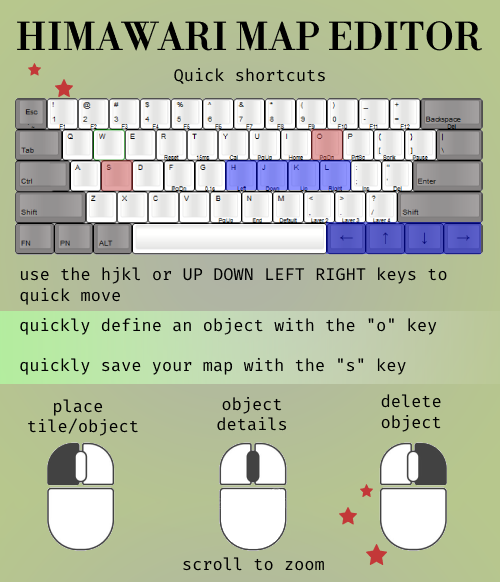
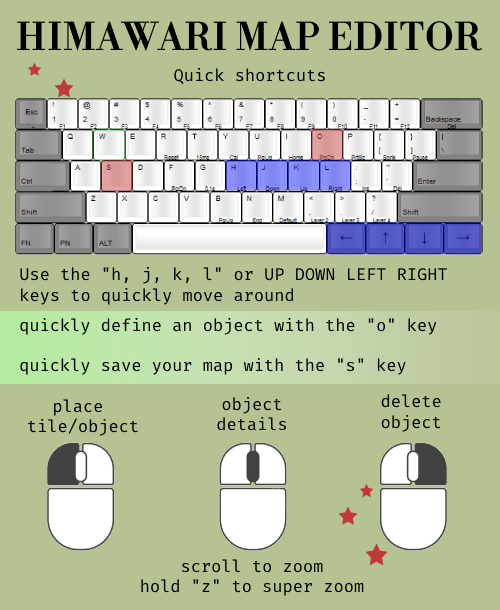
logs output

Changed region(s): [[0.0, 0.0309, 0.99, 0.9897], [0.66, 0.0309, 0.96, 0.0928], [0.81, 0.5258, 0.87, 0.5876]]

diff --git a/src/ProjectControl.java b/src/ProjectControl.java
@@ -21,7 +21,7 @@ public class ProjectControl extends JPanel implements ActionListener {
     private JButton newObject = new JButton("New Object"), newAlert = new JButton("Create Alarm"),
             newPlugin = new JButton("Import plugin"), importComponent = new JButton("Import component"),
             deleteCluster = new JButton("Delete cluster"), createCluster = new JButton("Create cluster"),
-            clearLogs = new JButton("Clear logs");
+            clearLogs = new JButton("Clear logs"), checkLogs = new JButton("Check storage logs");
     private JTextArea area = null;
     private JComboBox<String> clusterBox = null;
 
@@ -53,10 +53,11 @@ public class ProjectControl extends JPanel implements ActionListener {
                 + " KB)");
         dbData.setBounds(5, 540, 410, 20);
         add(dbData);
-
+        
+        
         // Fetch database clusters
         connect();
-
+        
         try {
 
             ResultSet rs = conn.getMetaData().getTables(null, null, null, null);
@@ -76,19 +77,23 @@ public class ProjectControl extends JPanel implements ActionListener {
         clusterInfo.setText(active+" active clusters out of "+clusters.size());
         clusterInfo.setBounds(5, 520, 410, 100);
         add(clusterInfo);
-
+        
         clusterBox = new JComboBox<String>(clusters.toArray(new String[clusters.size()]));
         clusterBox.setBounds(5, 595, 200, 30);
 
         deleteCluster.setBounds(210, 595, 200, 30);
         deleteCluster.addActionListener(this);
-
+        
         createCluster.setBounds(5, 625, 200, 30);
         createCluster.addActionListener(this);
         
         clearLogs.setBounds(210, 625, 200, 30);
         clearLogs.addActionListener(this);
+        
+        checkLogs.setBounds(5, 660, 405, 30);
+        checkLogs.addActionListener(this);
 
+        add(checkLogs);
         add(clearLogs);
         add(deleteCluster);
         add(createCluster);
@@ -112,7 +117,7 @@ public class ProjectControl extends JPanel implements ActionListener {
         
         area = new JTextArea();
         JScrollPane pane = new JScrollPane(area);
-        pane.setBounds(5, 300, 410, 200);
+        pane.setBounds(5, 270, 410, 200);
         
         add(pane);
         
@@ -322,6 +327,29 @@ public class ProjectControl extends JPanel implements ActionListener {
         } else if (e.getSource() == newPlugin) {
 
             new PluginManager();
+        } else if (e.getSource() == checkLogs) {
+
+            long milis = System.currentTimeMillis();
+            connect();
+
+            String sql = "SELECT * FROM logs";
+            try(Statement stmt = conn.createStatement()){
+
+                ResultSet rs = stmt.executeQuery(sql);
+                
+                rs.last();
+                String output = "Found " + rs.getRow() + " logs in " + ((System.currentTimeMillis() - milis)/1000) + " seconds ...\n";
+
+                rs.first();
+                while(rs.next()) {
+
+                    output += "description: " + rs.getString("description") + " | date: " + rs.getString("log_date") + "\n";
+                }
+                area.setText(output);
+                
+            }catch(Exception ee) {ee.printStackTrace();}
+
+            close();
         }
 
     }

diff --git a/src/Components/MapEditor.java b/src/Components/MapEditor.java
@@ -33,6 +33,7 @@ public class MapEditor extends JPanel implements ChangeListener {
 
     private int displayX, displayY, maxSize;
     private int x = 0, y = 0;
+    private boolean fastScroll = false;
 
     int layer = 0;
 
@@ -665,7 +666,7 @@ public class MapEditor extends JPanel implements ChangeListener {
 
                 frame.setSize(510, 650);
                 JLabel img = new JLabel(new ImageIcon("src/res/quick shortcuts.png"));
-                img.setBounds(0, 0, 500, 650);
+                img.setBounds(0, -20, 500, 650);
 
                 frame.setLocationRelativeTo(null);
                 frame.setResizable(false);
@@ -790,6 +791,9 @@ public class MapEditor extends JPanel implements ChangeListener {
 
                 if(e.getKeyChar() == 'o') defineObject();
                 if(e.getKeyChar() == 's') saveMap();
+
+                if(e.getKeyChar() == 'z') fastScroll = true; 
+
                 getComponentAt(0, 62).repaint();
             }
 
@@ -805,18 +809,21 @@ public class MapEditor extends JPanel implements ChangeListener {
                 } else if (e.getKeyCode() == 39) {
                     x++;
                 }
-
+                
                 getComponentAt(0, 62).repaint();
             }
 
             @Override
             public void keyReleased(KeyEvent e) {
 
+                if(e.getKeyChar() == 'p') fastScroll = false; 
             }
 
         });
 
         panel.addMouseWheelListener(new MouseWheelListener() {
+            
+            private int sens = 3;
 
             @Override
             public void mouseWheelMoved(MouseWheelEvent e) {
@@ -833,9 +840,10 @@ public class MapEditor extends JPanel implements ChangeListener {
                     getComponentAt(0, 62).repaint();
                 }
 
+
                 if (selected == null) {
 
-                    int size = displayX + e.getWheelRotation();
+                    int size = displayX + (e.getWheelRotation()) * (fastScroll ? sens : 1);
 
                     if (size <= 0 || size > maxSize * 2) {
         
@@ -854,8 +862,6 @@ public class MapEditor extends JPanel implements ChangeListener {
         });
 
         MouseInputListener inputListener = new MouseInputListener() {
-
-            public Point middleDrag = null;
 
             @Override
             public void mouseClicked(MouseEvent e) {
@@ -1465,6 +1471,7 @@ public class MapEditor extends JPanel implements ChangeListener {
     private void defineObject() {
 
         String name = JOptionPane.showInputDialog(null, "Object name: ");
+        if(name.trim() == "" || name == null) return;
         int angle = Integer.parseInt(JOptionPane.showInputDialog(null, "Object rotation (degrees): ", 0));
 
         int scaleX = Integer.parseInt(JOptionPane.showInputDialog(null, "Object scale X: ", 1));

diff --git a/src/Project.java b/src/Project.java
@@ -50,7 +50,8 @@ public class Project extends JFrame implements KeyListener, ActionListener {
             readdremote = new JMenuItem("Change remote repository url"),
             importLibrary = new JMenuItem("Import himawari libraries"), addDepend = new JMenuItem("Add dependencies"),
             newComp = new JMenuItem("Import scriptable components"), recompile = new JMenuItem("Recompile objects"),
-            openPomFile = new JMenuItem("Open pom.xml"), plugin = new JMenuItem("Import plugin");
+            openPomFile = new JMenuItem("Open pom.xml"), plugin = new JMenuItem("Import plugin"), system = new JMenuItem("System & Preferences"),
+            physics = new JMenuItem("Game physics menu"), input =  new JMenuItem("Game input icon");
 
     // Menu items to add resources
     JMenuItem addSprite = new JMenuItem("Add Image"), addMusic = new JMenuItem("Add Sound"),
@@ -112,8 +113,13 @@ public class Project extends JFrame implements KeyListener, ActionListener {
         codeMenu.add(i1);
         codeMenu.add(recompile);
 
+        settingsMenu.add(system);
+        settingsMenu.add(input);
+        settingsMenu.add(physics);
+        settingsMenu.add(new JSeparator());
         settingsMenu.add(buildSettings);
         settingsMenu.add(settings);
+
         other.add(open);
         other.add(close);
         build.add(buildJar);

diff --git a/src/MapCreator.java b/src/MapCreator.java
@@ -9,6 +9,7 @@ import javax.swing.JTextField;
 
 import Components.Structs.Map;
 
+import java.awt.Image;
 import java.awt.event.*;
 import java.io.File;
 import java.io.FileOutputStream;
@@ -54,8 +55,8 @@ public class MapCreator extends JFrame implements ActionListener{
 
         create.addActionListener(this);
 
-        JLabel icon = new JLabel(new ImageIcon("src/res/room_wizard.png"));
-        icon.setBounds(5, 210, 300, 300);
+        JLabel icon = new JLabel(new ImageIcon(new ImageIcon("src/res/room_wizard.png").getImage().getScaledInstance(200, 200, Image.SCALE_SMOOTH)));
+        icon.setBounds(-30, 210-67 , 300, 300);
 
         add(icon);
         add(create);
